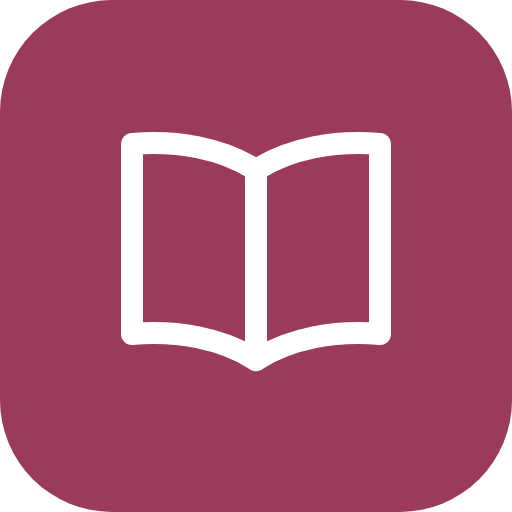
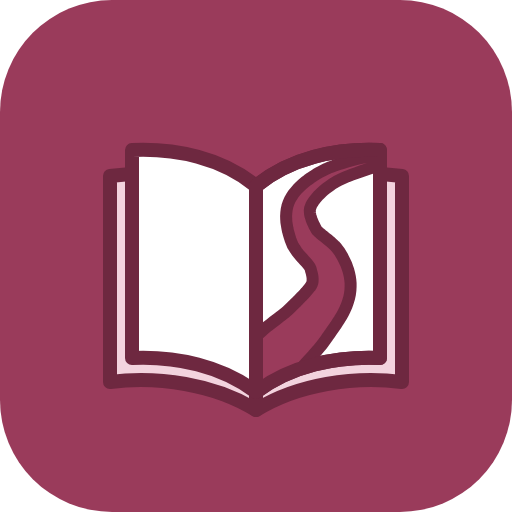
feat(icones): ícones png do novo desenho (T31, FUN-93)
Molde: e2e/manifesto.spec.ts:17

Changed region(s): [[0.1875, 0.25, 0.8125, 0.8125]]

diff --git a/test/arquivos/icones-png.test.ts b/test/arquivos/icones-png.test.ts
@@ -1,0 +1,45 @@
+import { readFileSync } from 'node:fs';
+import { join } from 'node:path';
+import { inflateSync } from 'node:zlib';
+import { describe, expect, it } from 'vitest';
+
+/** Ícones PNG do app (FUN-93), gerados por `scripts/gerar-icones.mjs`. */
+const ler = (nome: string) => readFileSync(join(process.cwd(), 'public', 'icones', nome));
+
+/** Largura, altura (cabeçalho IHDR) e o primeiro pixel (canto superior esquerdo) como [r, g, b, a]. */
+function png(corpo: Buffer) {
+  expect(corpo.subarray(1, 4).toString('ascii')).toBe('PNG');
+  const largura = corpo.readUInt32BE(16);
+  const altura = corpo.readUInt32BE(20);
+  const tipo = corpo[25]; // 2 = RGB, 6 = RGBA (8 bits)
+  const idat: Buffer[] = [];
+  for (let i = 8; i < corpo.length;) {
+    const tamanho = corpo.readUInt32BE(i);
+    if (corpo.subarray(i + 4, i + 8).toString('ascii') === 'IDAT') idat.push(corpo.subarray(i + 8, i + 8 + tamanho));
+    i += 12 + tamanho;
+  }
+  const cru = inflateSync(Buffer.concat(idat));
+  // Primeira linha: sem pixel à esquerda nem acima, o primeiro pixel é o dado cru, qualquer que seja o filtro.
+  const canais = tipo === 6 ? 4 : 3;
+  const [r, g, b, a] = [cru[1]!, cru[2]!, cru[3]!, canais === 4 ? cru[4]! : 255];
+  return { largura, altura, pixel: [r, g, b, a] };
+}
+
+describe('ícones PNG (FUN-93)', () => {
+  it.each([
+    ['icone-192.png', 192],
+    ['icone-512.png', 512],
+    ['icone-maskable-512.png', 512],
+  ])('FUN-93: %s tem %i × %i', (nome, lado) => {
+    const { largura, altura } = png(ler(nome));
+    expect([largura, altura]).toEqual([lado, lado]);
+  });
+
+  it('FUN-93: o maskable é vinho até o canto, sem transparência', () => {
+    expect(png(ler('icone-maskable-512.png')).pixel).toEqual([0x9a, 0x3b, 0x5b, 255]);
+  });
+
+  it('FUN-93: o ícone comum mantém o canto arredondado (transparente)', () => {
+    expect(png(ler('icone-512.png')).pixel[3]).toBe(0);
+  });
+});
